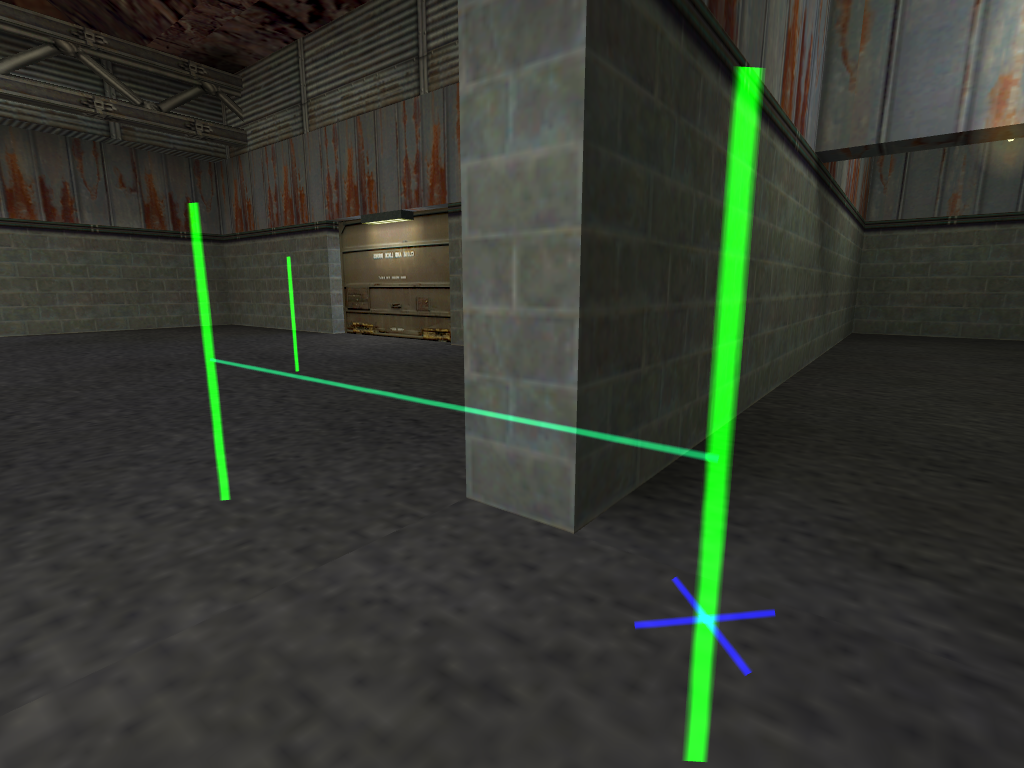
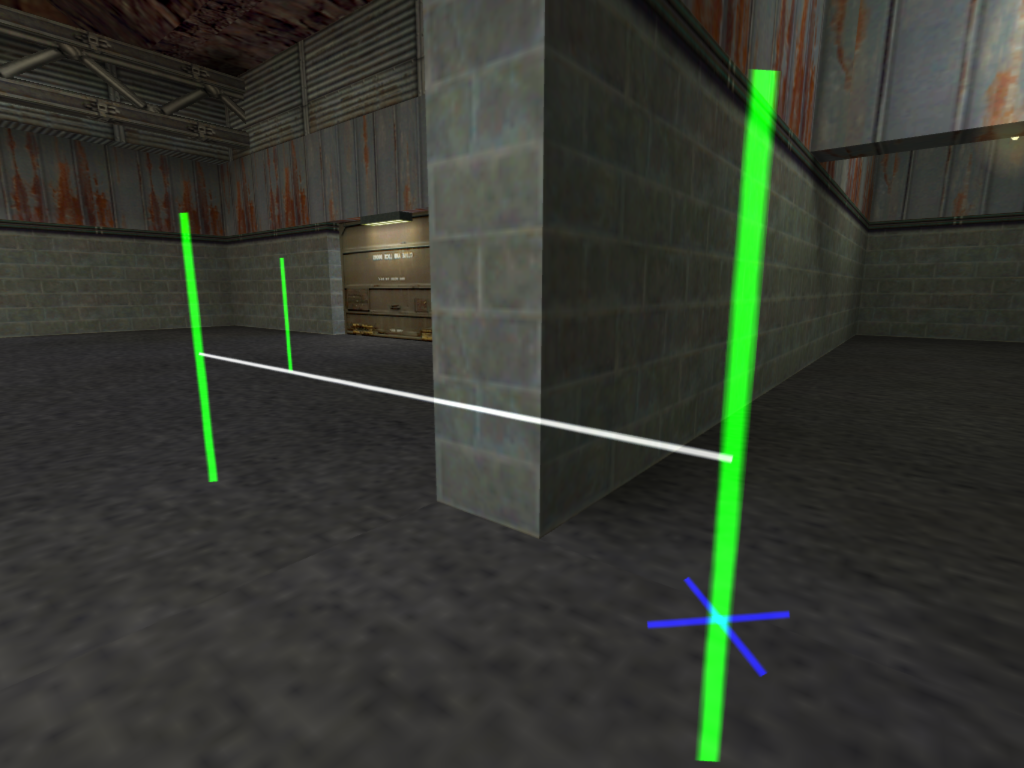
Replace an incoming path picture

diff --git a/docs/waypointing.rst b/docs/waypointing.rst
@@ -16,7 +16,7 @@ There are several waypoint types that can be used to indicate map goals, rescue 
 
 Besides, you don't have to worry about every little detail. The editor that comes with this bot version will do lots of the work for you, and besides, it's graphical and easy to use (no programming/coding skills or anything required). You may very well discover that making waypoints can be fun, especially when you see bots roam through the entire map without problems - and you made it possible!.
 
-.. Note:: Since YaPB 2.10 version, a new waypoint format named **Graph** has been added. Thanks to this, points limit was increased to 2048, directions of camp points can be set up and down, not just left and right and reduced the size of waypoint files. YaPB also continues to support the old **PWF** format. Waypoints (multicolored stripes) now named **Nodes** since YaPB 4.x version. Waypoint editor also renamed to Graph editor.
+.. Note:: Since YaPB 2.10 version, a new waypoint format named **Graph** has been added, which raised the limit to 2048 points, allows you to set camp directions not only horizontally but also vertically, and also reduced the size of waypoint files. YaPB also continues to support the old **PWF** format. Waypoints (multicolored stripes) now named **Nodes** since YaPB 4.x version. Waypoint editor also renamed to Graph editor.
 
 
 What do waypoints look like in the game?
@@ -24,7 +24,7 @@ What do waypoints look like in the game?
 
 When you are playing a normal game on a waypointed map, the waypoints will of course be invisible so that they don't distract or annoy you in any way.
 When waypointing is activated (see: How can I access the waypoint editor?, Below for instructions on how to do that), you will see waypoints as vertical bars about as high as a standing player. The colour of normal waypoints is green, but you may also see waypoints in white, purple, red, blue and cyan. These colours indicate special waypoints, some of which have already been mentioned in the last paragraph. If you see waypoints that are much smaller than the other ones, they are crouch waypoints. They will force bots to crouch when approaching them. Such waypoints are needed to lead bots through vents or any other low and narrow passages.
-Connections between waypoints are marked as horizontal lines leading from the centre of one waypoint to the other. They, too, exist in different colours. You may see yellow, white, red and teal lines. Don't worry if all these different colours sound confusing right now - it's actually very easy, but of course it helps a lot if you see some waypoints on the screen.
+Connections between waypoints are marked as horizontal lines leading from the centre of one waypoint to the other. They, too, exist in different colours. You may see yellow, white and red lines. Don't worry if all these different colours sound confusing right now - it's actually very easy, but of course it helps a lot if you see some waypoints on the screen.
 Now you know what waypoints and connections are, what they are for and what they look like, you may want to enter the editing mode and see for yourself.
 
 
@@ -390,14 +390,14 @@ In game, 1-way connections will be visible from 2 waypoints, their start and the
 
     An Outgoing 1-Way connection from right to left waypoint.
 
-The picture below shows the same two waypoints with the incoming connection (from left to right waypoint), :teal:`The incoming 1-way connection displayed in teal` as you can see in the picture below.
+The picture below shows the same two waypoints with the incoming connection (from left to right waypoint), :white:`The incoming 1-way connection displayed in white` as you can see in the picture below.
 
 .. figure:: images/incoming_path.png
     :align: center
 
     An Incoming 1-Way connection from left to right waypoint.
 
-.. note:: If you created an :green:`outgoing path connection` from waypoint A to waypoint B, it will be displayed in green. And when you get to waypoint B, the path connection will turn teal like an :teal:`incoming path connection`.
+.. note:: If you created an :green:`outgoing path connection` from waypoint A to waypoint B, it will be displayed in green. And when you get to waypoint B, the path connection will turn white like an :white:`incoming path connection`.
 
 The fact that 1-way connection are shown from both involved points is a great feature. It makes spotting errors very easy and saves you the trouble of running around to check if there is a connection TO the point where you are standing.
 
@@ -439,9 +439,9 @@ After deleting the path connection, you may notice that the :green:`outgoing pat
 .. figure:: images/deleted_outgoing_path.png
     :align: center
 
-    Removed :green:`outgoing path connection`, only :teal:`incoming path connection` remains (from the selected waypoint to the waypoint you are standing on)
+    Removed :green:`outgoing path connection`, only :white:`incoming path connection` remains (from the selected waypoint to the waypoint you are standing on)
 
-Select ``4. Delete path`` again to delete the :teal:`incoming path connection`.
+Select ``4. Delete path`` again to delete the :white:`incoming path connection`.
 
 .. figure:: images/fully_deleted_path.png
     :align: center
@@ -475,7 +475,7 @@ YaPB has 5 flags for waypoints, which are:
 #. Terrorist Specific - makes waypoint important for Terrorists
 #. CTs Specific - makes waypoint important for Counter-Terrorists
 #. Use Elevator - a flag for a waypoint that makes bots wait while they uplift on the elevator (you must put this flag on the waypoint at the beginning of the elevator path and at the end of the elevator path)
-#. Sniper Point - a flag that makes the camp point as a sniper point.
+#. Sniper Point - a flag that makes the camp point as a sniper point (bots will only camp with sniper rifles).
 
 .. figure:: images/waypoint_flags_menu.png
     :align: center

diff --git a/docs/localization.rst b/docs/localization.rst
@@ -1,5 +1,5 @@
 *********************
-Localizing
+Localization
 *********************
 YaPB localization files are located inside ``addons/yapb/conf/lang`` folder.
 Main localization are located inside ``**_lang.cfg`` where ``**`` is two-letter language code
@@ -31,6 +31,7 @@ Chat Localization
 ================================
 You just need to create a file ``**_chat.cfg`` for bot chat in your language.
 You can use the file en_chat.cfg as an example.
+See the customization section for details.
 
 Nickname Localization
 ================================
